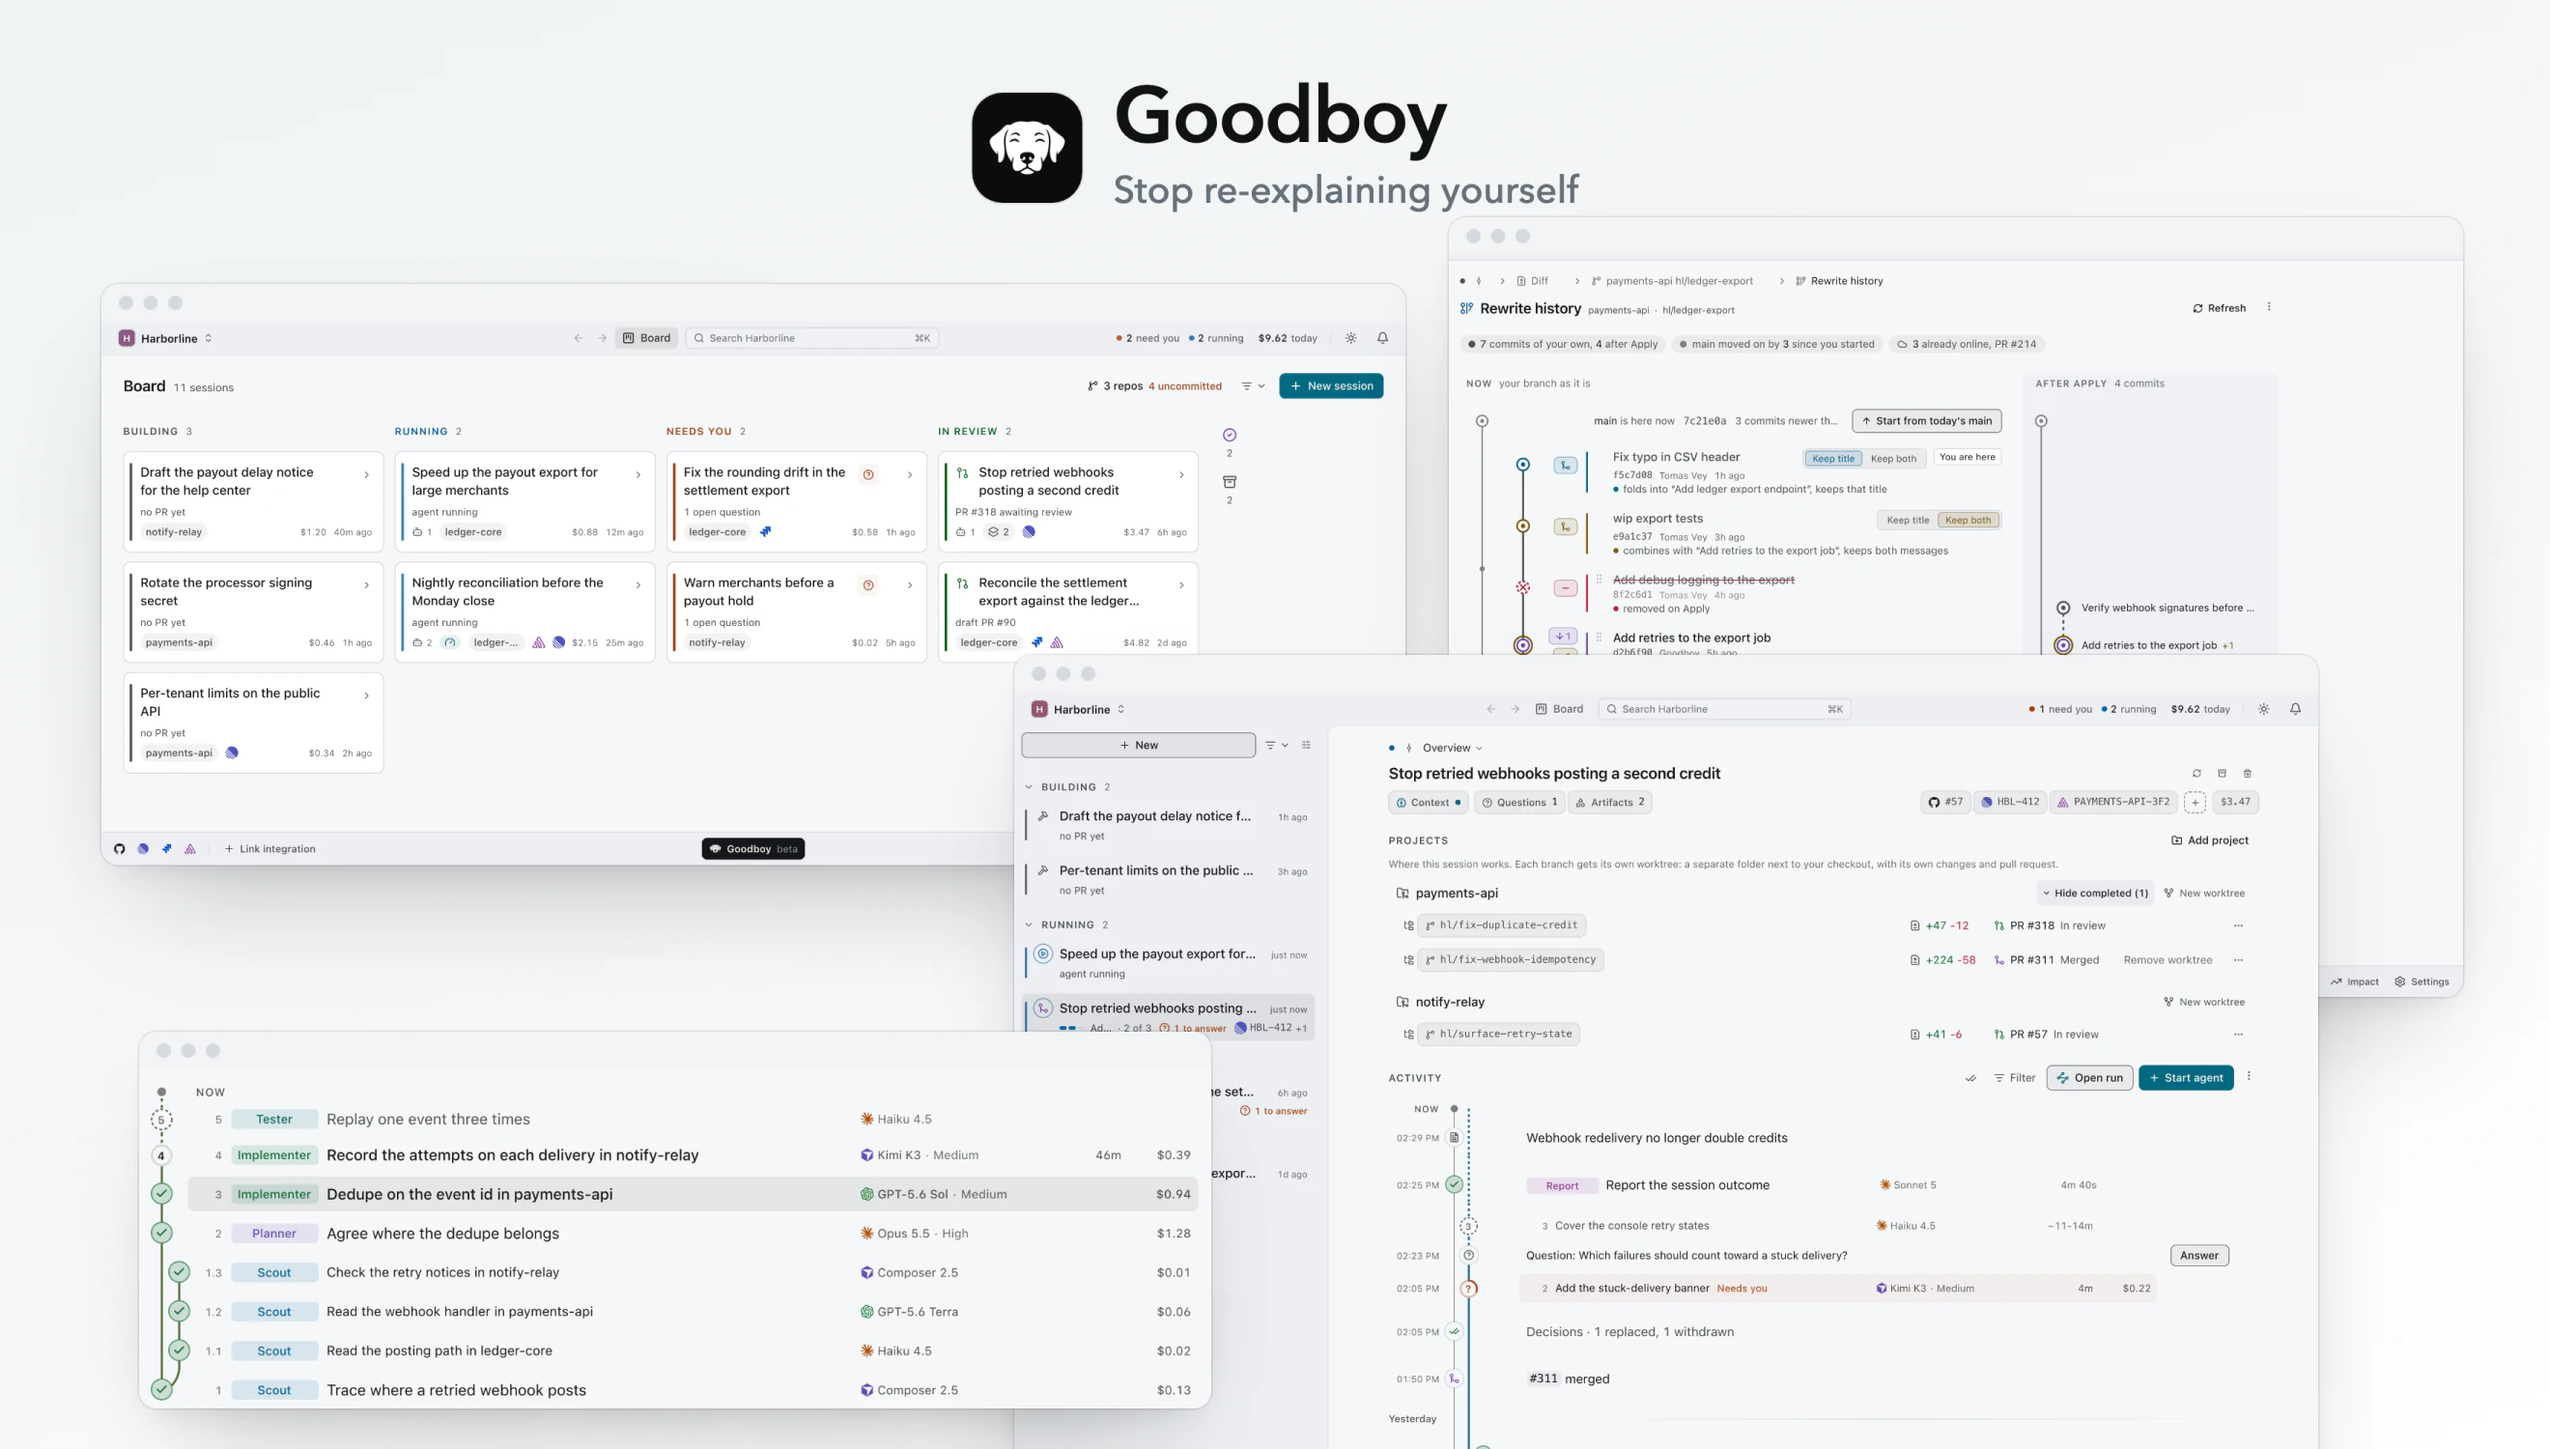
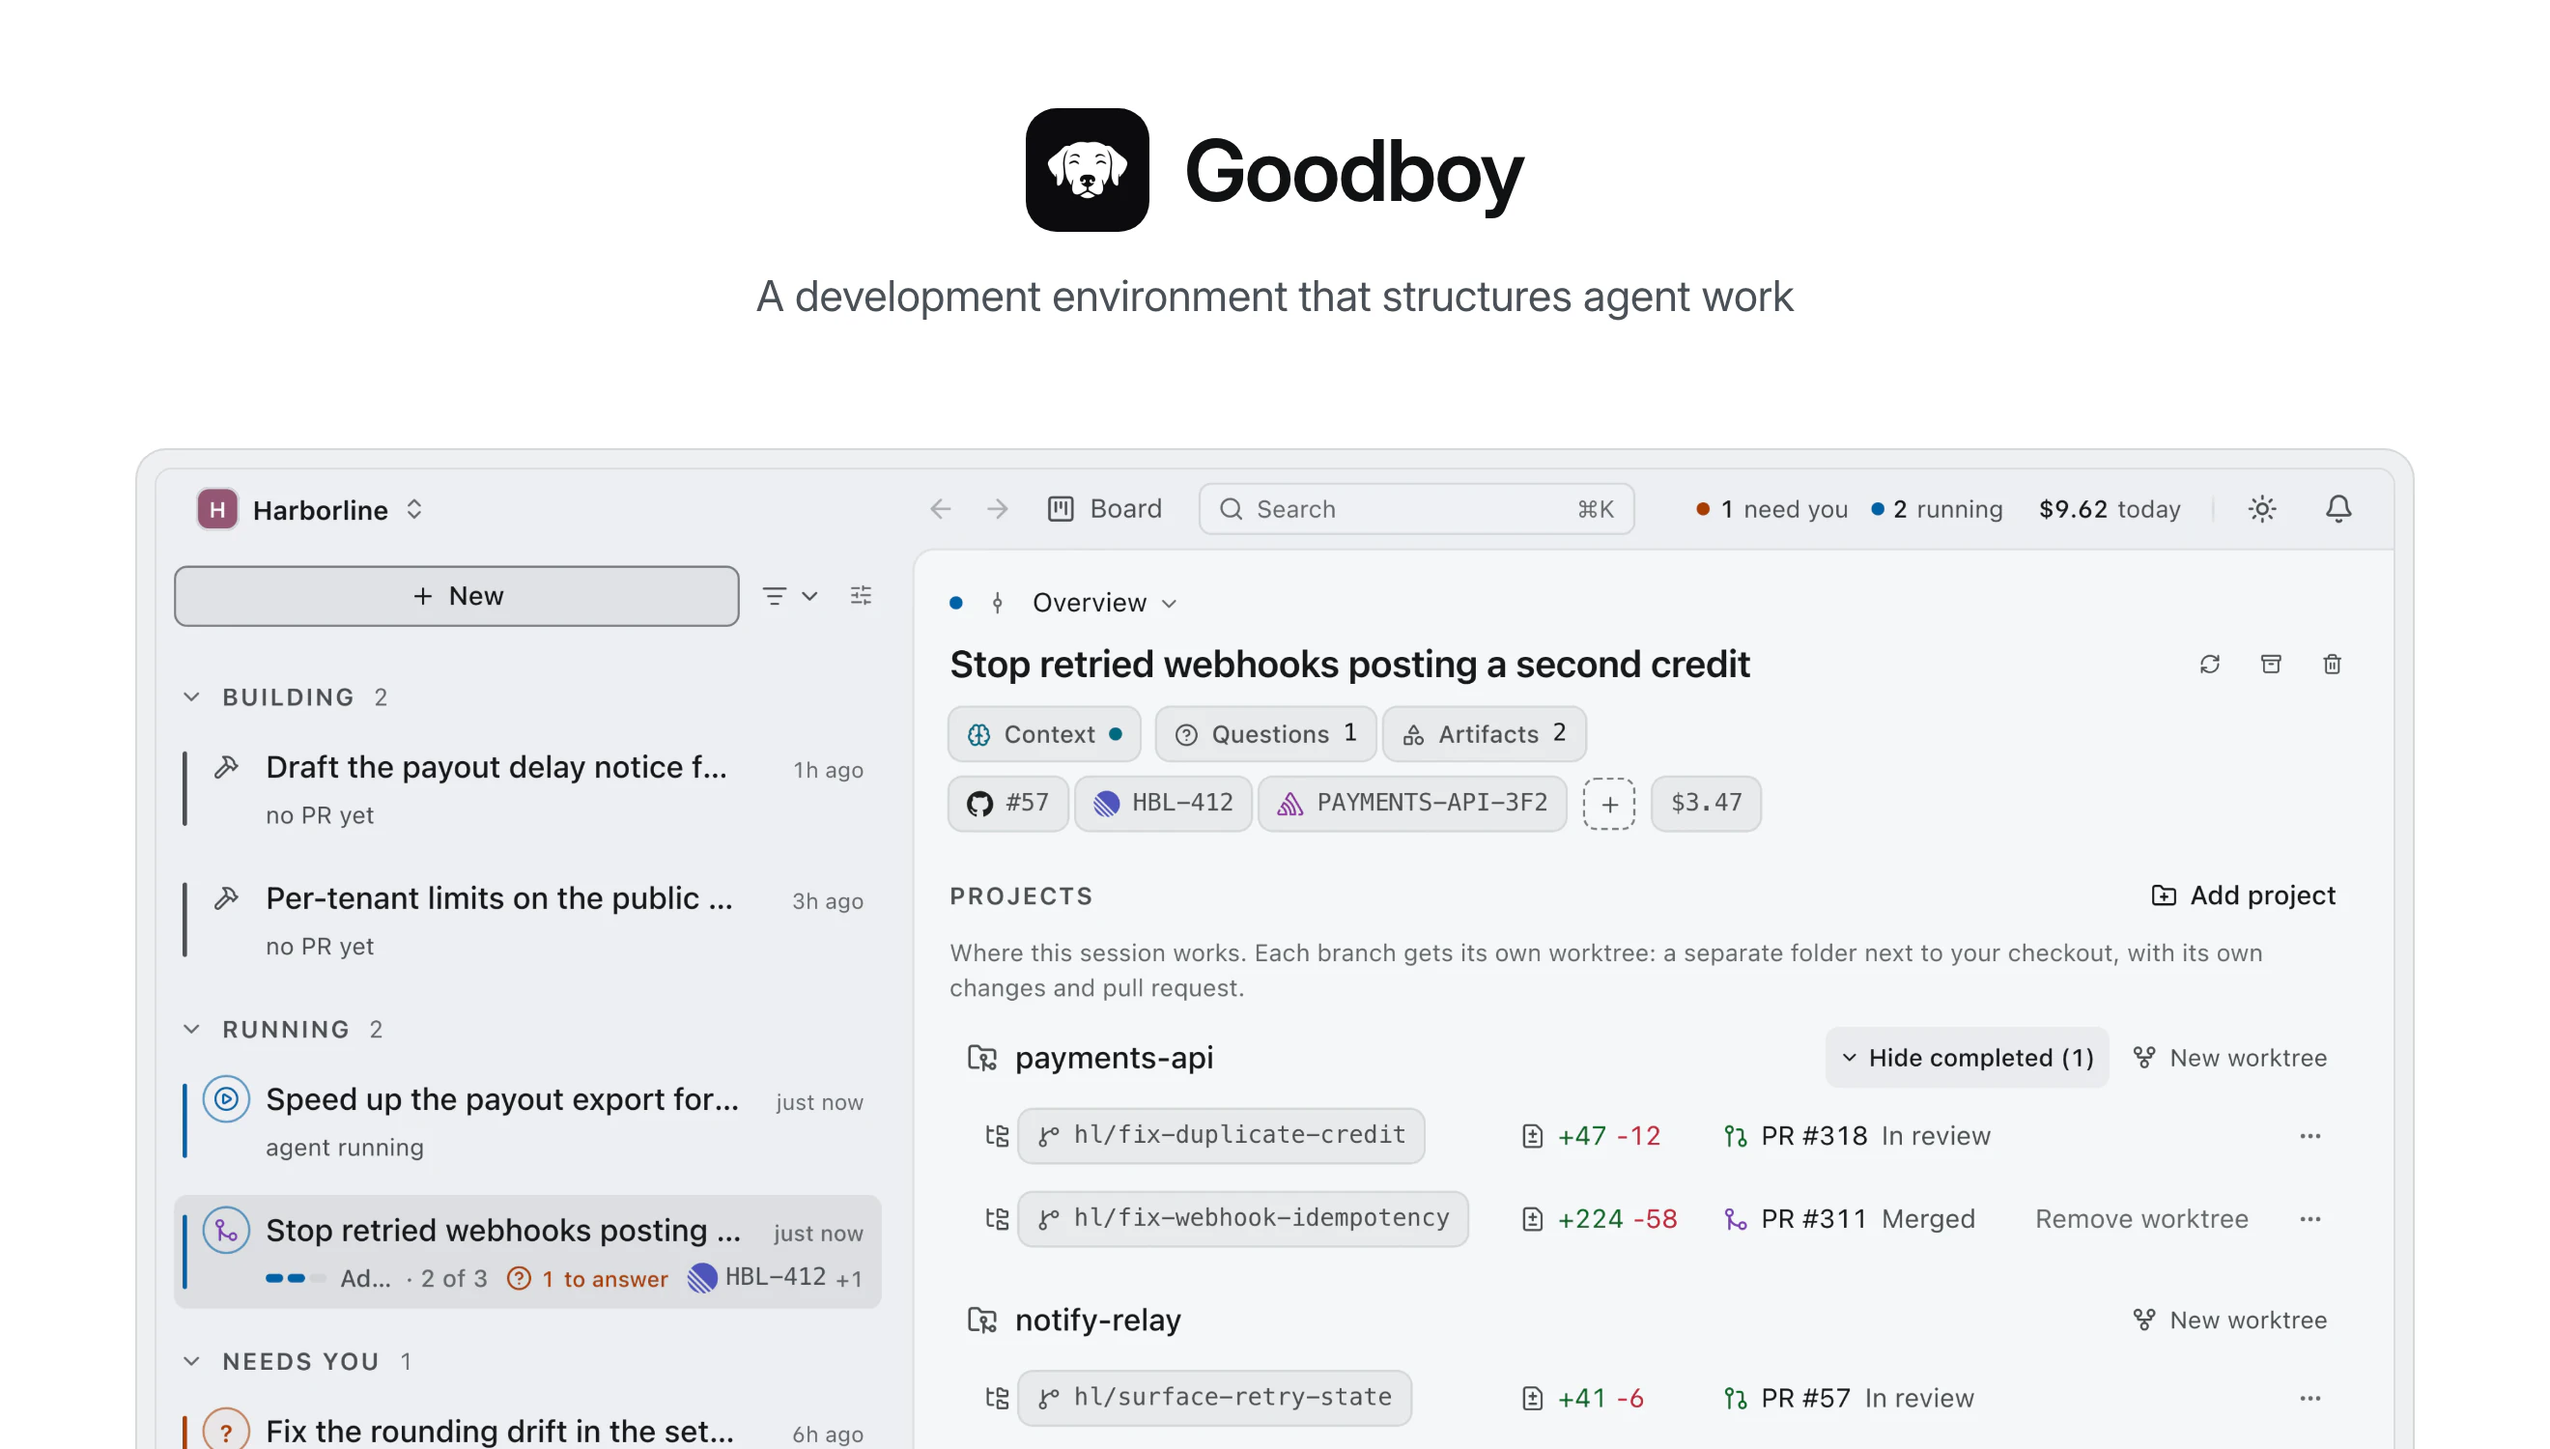
docs(repo): rebuild the readme hero from the landing hero frame
The collage becomes the logo on its dark tile, the h1 as one line, and
the landing's hero frame at 4x on its plate, 2640 by 1500 in both
themes. The alt text follows the new picture.

diff --git a/README.md b/README.md
@@ -2,7 +2,7 @@
 
 <picture>
   <source media="(prefers-color-scheme: dark)" srcset="./docs/readme/readme-hero-dark.webp">
-  <img src="./docs/readme/readme-hero-light.webp" alt="Goodboy, stop re-explaining yourself: the board, a session with its activity bar, a workflow run and Rewrite history" width="880">
+  <img src="./docs/readme/readme-hero-light.webp" alt="Goodboy, a development environment that structures agent work: the overview of a Harborline session with its tasks by stage, its projects and its pull requests" width="880">
 </picture>
 
 [![ci](https://img.shields.io/github/actions/workflow/status/akhayam99/goodboy/ci.yml?branch=main&style=for-the-badge&logo=githubactions&logoColor=white&label=ci&labelColor=15181b)](https://github.com/akhayam99/goodboy/actions/workflows/ci.yml)
